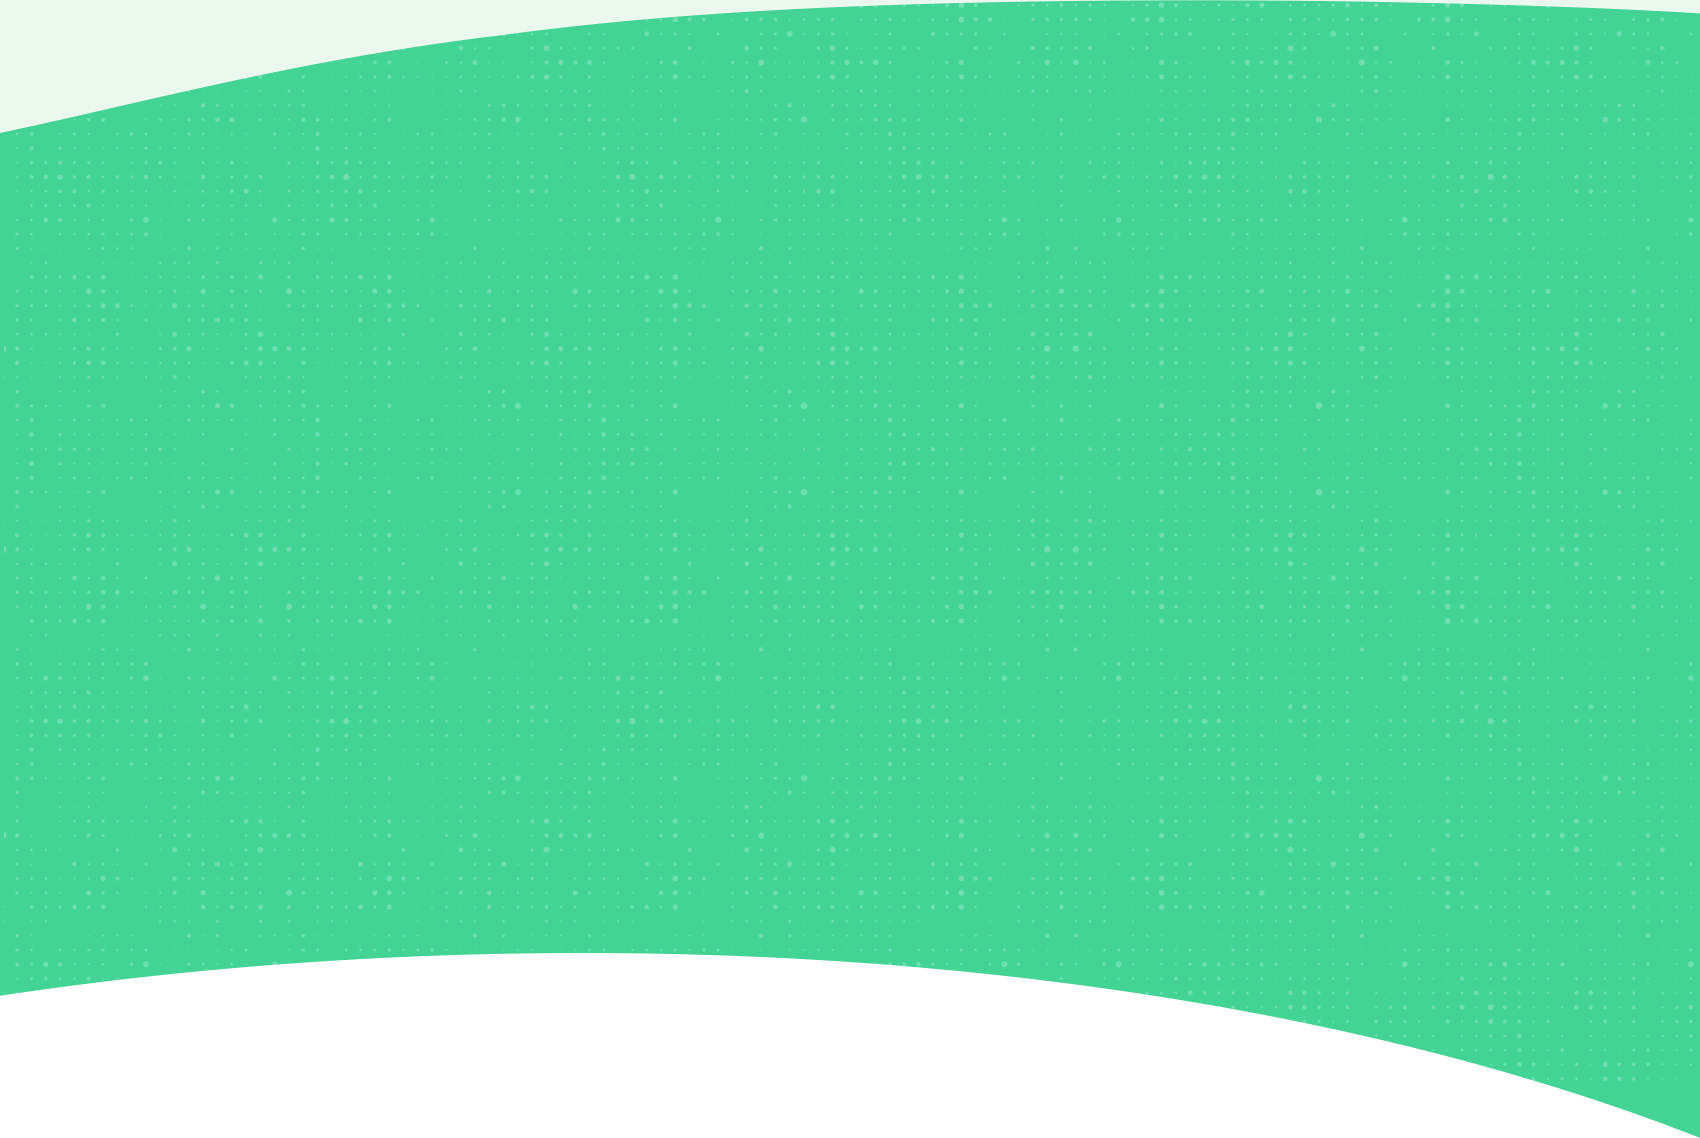
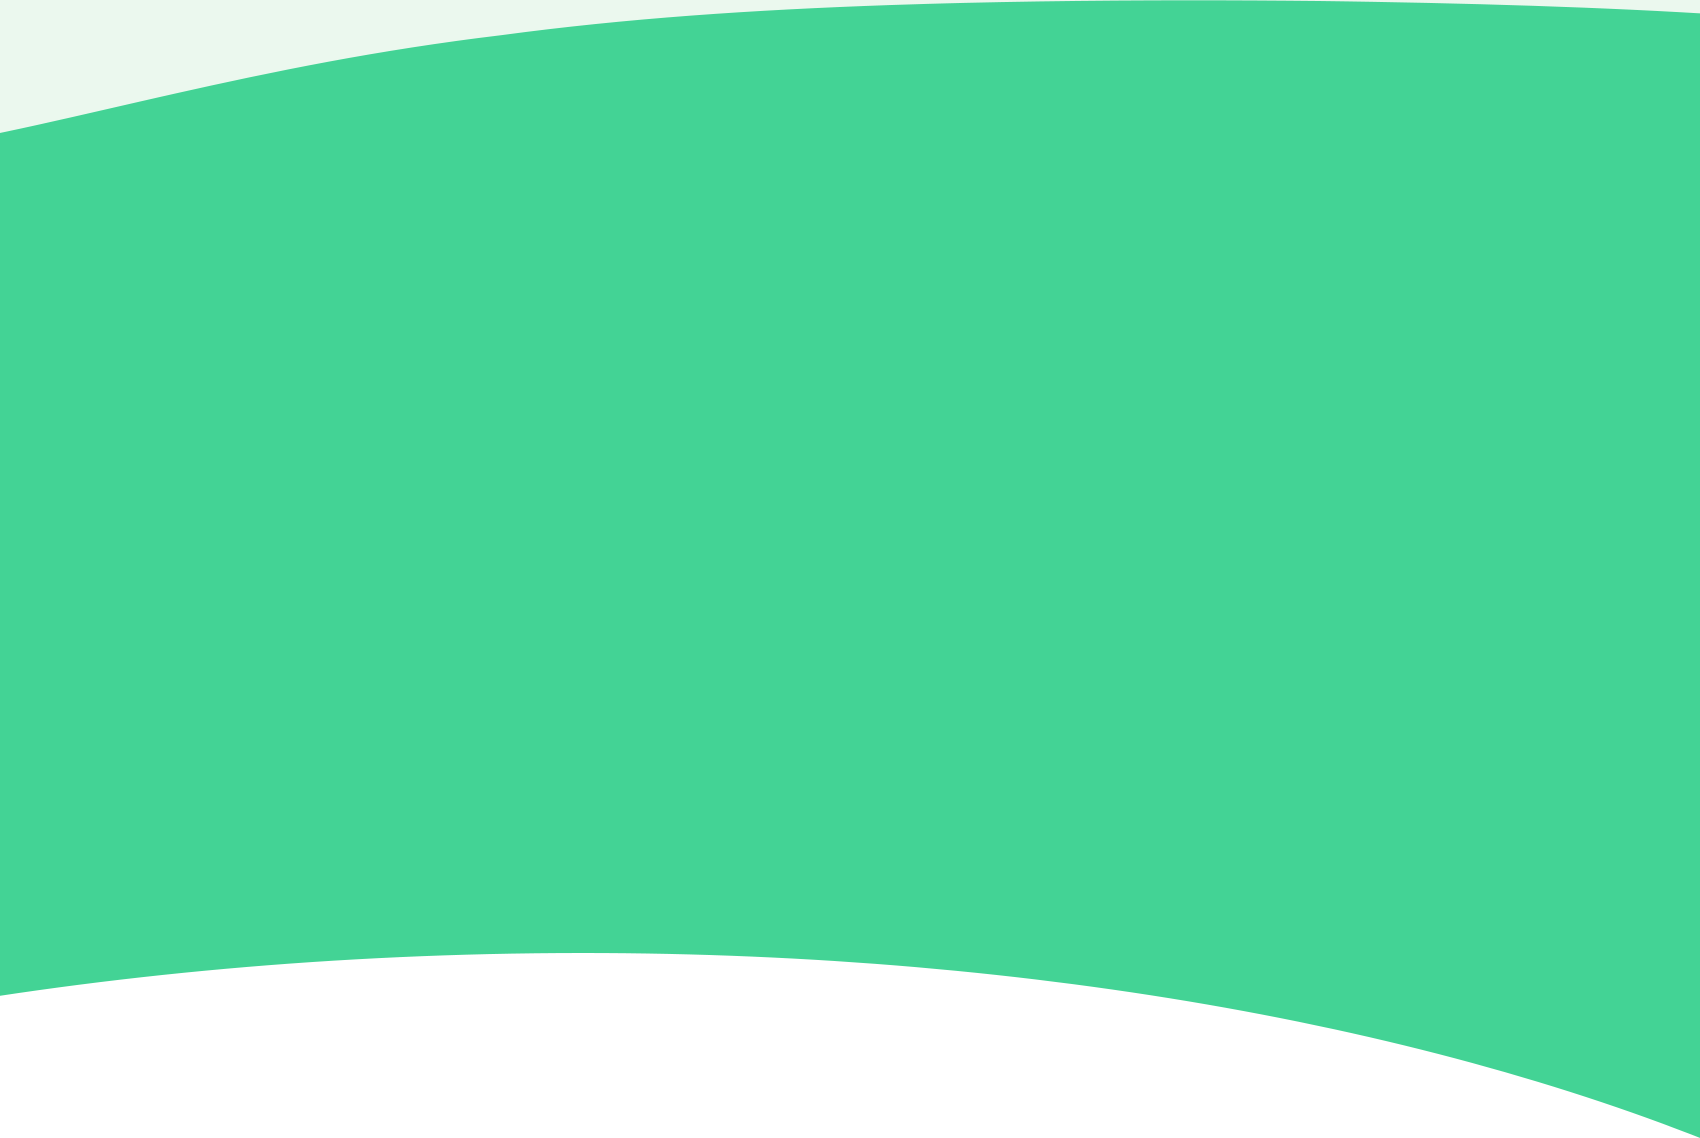
removing patterns

diff --git a/index.html b/index.html
@@ -110,7 +110,8 @@
     }
 
     #header {
-      background-image: url("img/background-hero.png");
+      background-image: url("img/background-hero.png"
+        );
       background-repeat: no-repeat;
       background-position: bottom right;
       background-size: 100%;
@@ -130,11 +131,11 @@
       background-size: 100% 100%;
     }
 
-    #contact {
-      background-image: url("img/background-contact.png");
+    /* #contact {
+      background-image: url("img/dots-pattern.png");
       background-repeat: repeat;
       background-position: center;
-    }
+    } */
   </style>
 </head>
 
@@ -179,10 +180,10 @@
             Using Digital Assets.
           </p>
           <div class="gap-2 d-flex justify-content-md-start">
-            <a href="#">
+            <a href="#" data-bs-toggle="modal" data-bs-target="#comingSoonModal">
               <img src="img/download-google-play.png" alt="" class="img-download-button">
             </a>
-            <a href="#">
+            <a href="#" data-bs-toggle="modal" data-bs-target="#comingSoonModal">
               <img src="img/download-app-store.png" alt="" class="img-download-button">
             </a>
           </div>
@@ -293,10 +294,10 @@
               The yoMoola Wallet makes it easy to purchase digital assets with a credit or debit card. It features store-specific promotions and rewards for using the app. And, users don't need to hassle with separate tokens for gas fees.
             </p>
             <div class="gap-2 d-flex justify-content-md-start">
-              <a href="#">
+              <a href="#" data-bs-toggle="modal" data-bs-target="#comingSoonModal">
                 <img src="img/download-google-play.png" alt="" class="img-download-button">
               </a>
-              <a href="#">
+              <a href="#" data-bs-toggle="modal" data-bs-target="#comingSoonModal">
                 <img src="img/download-app-store.png" alt="" class="img-download-button">
               </a>
             </div>
@@ -413,6 +414,22 @@
     </div>
   </footer>
   <!-- ./footer -->
+
+  <!-- comingSoonModal -->
+  <div class="modal fade" id="comingSoonModal" tabindex="-1" aria-labelledby="comingSoonModalLabel" aria-hidden="true">
+    <div class="modal-dialog modal-dialog-centered">
+      <div class="modal-content bg-brand-dark text-light">
+        <!-- <div class="modal-header">
+                              <h1 class="modal-title fs-5" id="comingSoonModalLabel">Coming Soon!</h1>
+                              <button type="button" class="btn-close" data-bs-dismiss="modal" aria-label="Close"></button>
+                            </div> -->
+        <div class="modal-body">
+          Coming soon, For both <strong>Google Play Store</strong> and <strong>Apple App Store</strong>!
+        </div>
+      </div>
+    </div>
+  </div>
+  <!-- ./comingSoonModal -->
 
   <!-- boostrap-js -->
   <script src="https://cdn.jsdelivr.net/npm/@popperjs/core@2.11.6/dist/umd/popper.min.js" integrity="sha384-oBqDVmMz9ATKxIep9tiCxS/Z9fNfEXiDAYTujMAeBAsjFuCZSmKbSSUnQlmh/jp3" crossorigin="anonymous"></script>

diff --git a/scss/custom-bootstrap.scss b/scss/custom-bootstrap.scss
@@ -26,20 +26,3 @@ $theme-colors: map-merge($theme-colors, $custom-colors);
 @import "../node_modules/bootstrap/scss/bootstrap";
 
 // Then add additional custom code here
-
-// :root {
-//   --bs-body-font-family: 'rockwell',
-//     system-ui,
-//     -apple-system,
-//     "Segoe UI",
-//     Roboto,
-//     "Helvetica Neue",
-//     "Noto Sans",
-//     "Liberation Sans",
-//     Arial,
-//     sans-serif,
-//     "Apple Color Emoji",
-//     "Segoe UI Emoji",
-//     "Segoe UI Symbol",
-//     "Noto Color Emoji";
-// }
